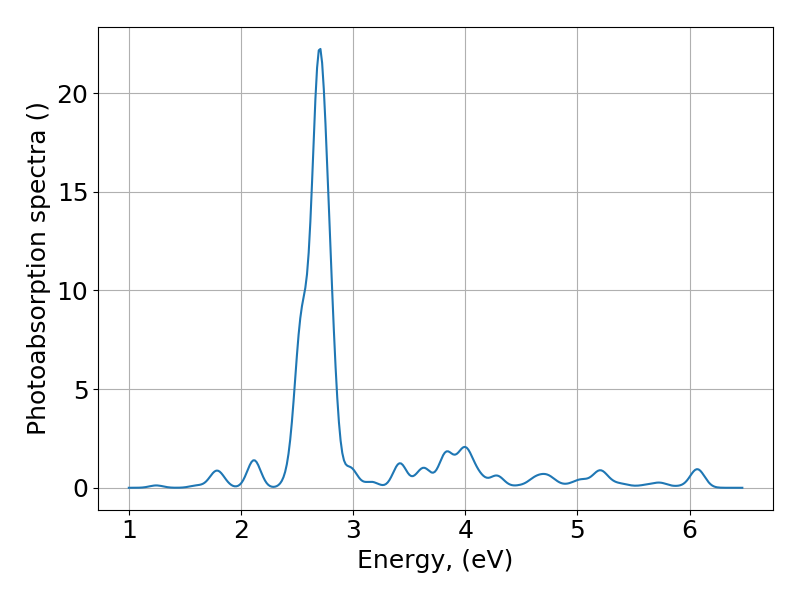
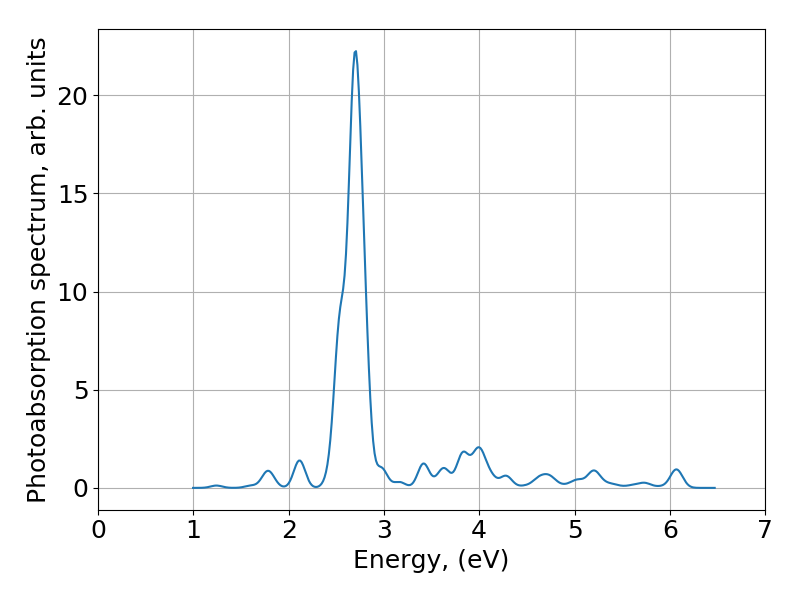
Prepare for extraction off KS spectra for task 1

diff --git a/ComputationalMaterialsAndMolecularphysics/HW4/task2/task2.py b/ComputationalMaterialsAndMolecularphysics/HW4/task2/task2.py
@@ -47,11 +47,22 @@ for i, e in enumerate(eigVal):
 
 # Compare with the discrete spectrum from GPAW
 # Plot
+disc_data = np.loadtxt('GPAW_discrete.dat', skiprows=0)
 fig, ax = plt.subplots(figsize=(8,6))
 for i,e in enumerate(eps):
     if i==0:
-        ax.plot([e,e], [0,f[i]], color='C0', linestyle='-', linewidth='2', label='Casida (manual)')
+        # GPAW 
+        d_e = disc_data[i,1]
+        I_e = disc_data[i,2]
+        ax.plot([d_e, d_e], [0, I_e] / max(disc_data[:,2]), color='k', linestyle='--', linewidth='3', zorder=3, label='GPAW Casida')
+        # Manual
+        ax.plot([e,e], [0,f[i]], color='C0', linestyle='-', linewidth='2', label='Manual Casida')
     else:
+        # GPAW 
+        d_e = disc_data[i,1]
+        I_e = disc_data[i,2]
+        ax.plot([d_e, d_e], [0, I_e] / max(disc_data[:,2]), color='k', linestyle='--', zorder=3, linewidth='2')
+        # Manual
         ax.plot([e,e], [0,f[i]], color='C0', linestyle='-', linewidth='2')
 ax.set_xlabel('Energy, (eV)')
 ax.set_ylabel(r'Oscillator strength, arb. units')
@@ -63,10 +74,10 @@ plt.savefig('task2_discrete_spectra.png')
 # Finally, convolute my spectrum with a Gaussian and compare with task 1
 task1 = np.loadtxt('../task1/spectrum_w0.06.dat', skiprows=4)
 
-energy = np.linspace(0, 7, 1000)
+energy = np.linspace(0, 7, 500)
 f_fold = h.fold(x_t=energy, x_i=eps, y_i=f, width=0.06)
 fig, ax = plt.subplots(figsize=(8,6))
-ax.plot(task1[:,0], task1[:,1] / max(task1[:,1]), color='C2', linestyle='-', linewidth='2', label='GPAW Casida (T.1)') # Normalize both spectra since arbitrary units
+ax.plot(task1[:,0], task1[:,1] / max(task1[:,1]), color='k', linestyle='--', linewidth='2', zorder=3, label='GPAW Casida (T.1)') # Normalize both spectra since arbitrary units
 ax.plot(energy, f_fold / max(f_fold), color='C0', linestyle='-', linewidth='2', label='Manual Casida') 
 ax.set_xlabel('Energy, (eV)')
 ax.set_ylabel(r'Photoabsorption spectrum, arb. units')

diff --git a/ComputationalMaterialsAndMolecularphysics/HW4/task2/helper.py b/ComputationalMaterialsAndMolecularphysics/HW4/task2/helper.py
@@ -1,6 +1,6 @@
 import numpy as np
 from ase.units import Hartree
-from gpaw.lrtddft import LrTDDFT
+# from gpaw.lrtddft import LrTDDFT
 
 def discrete_spectrum(lr, fpath):
 	'''
